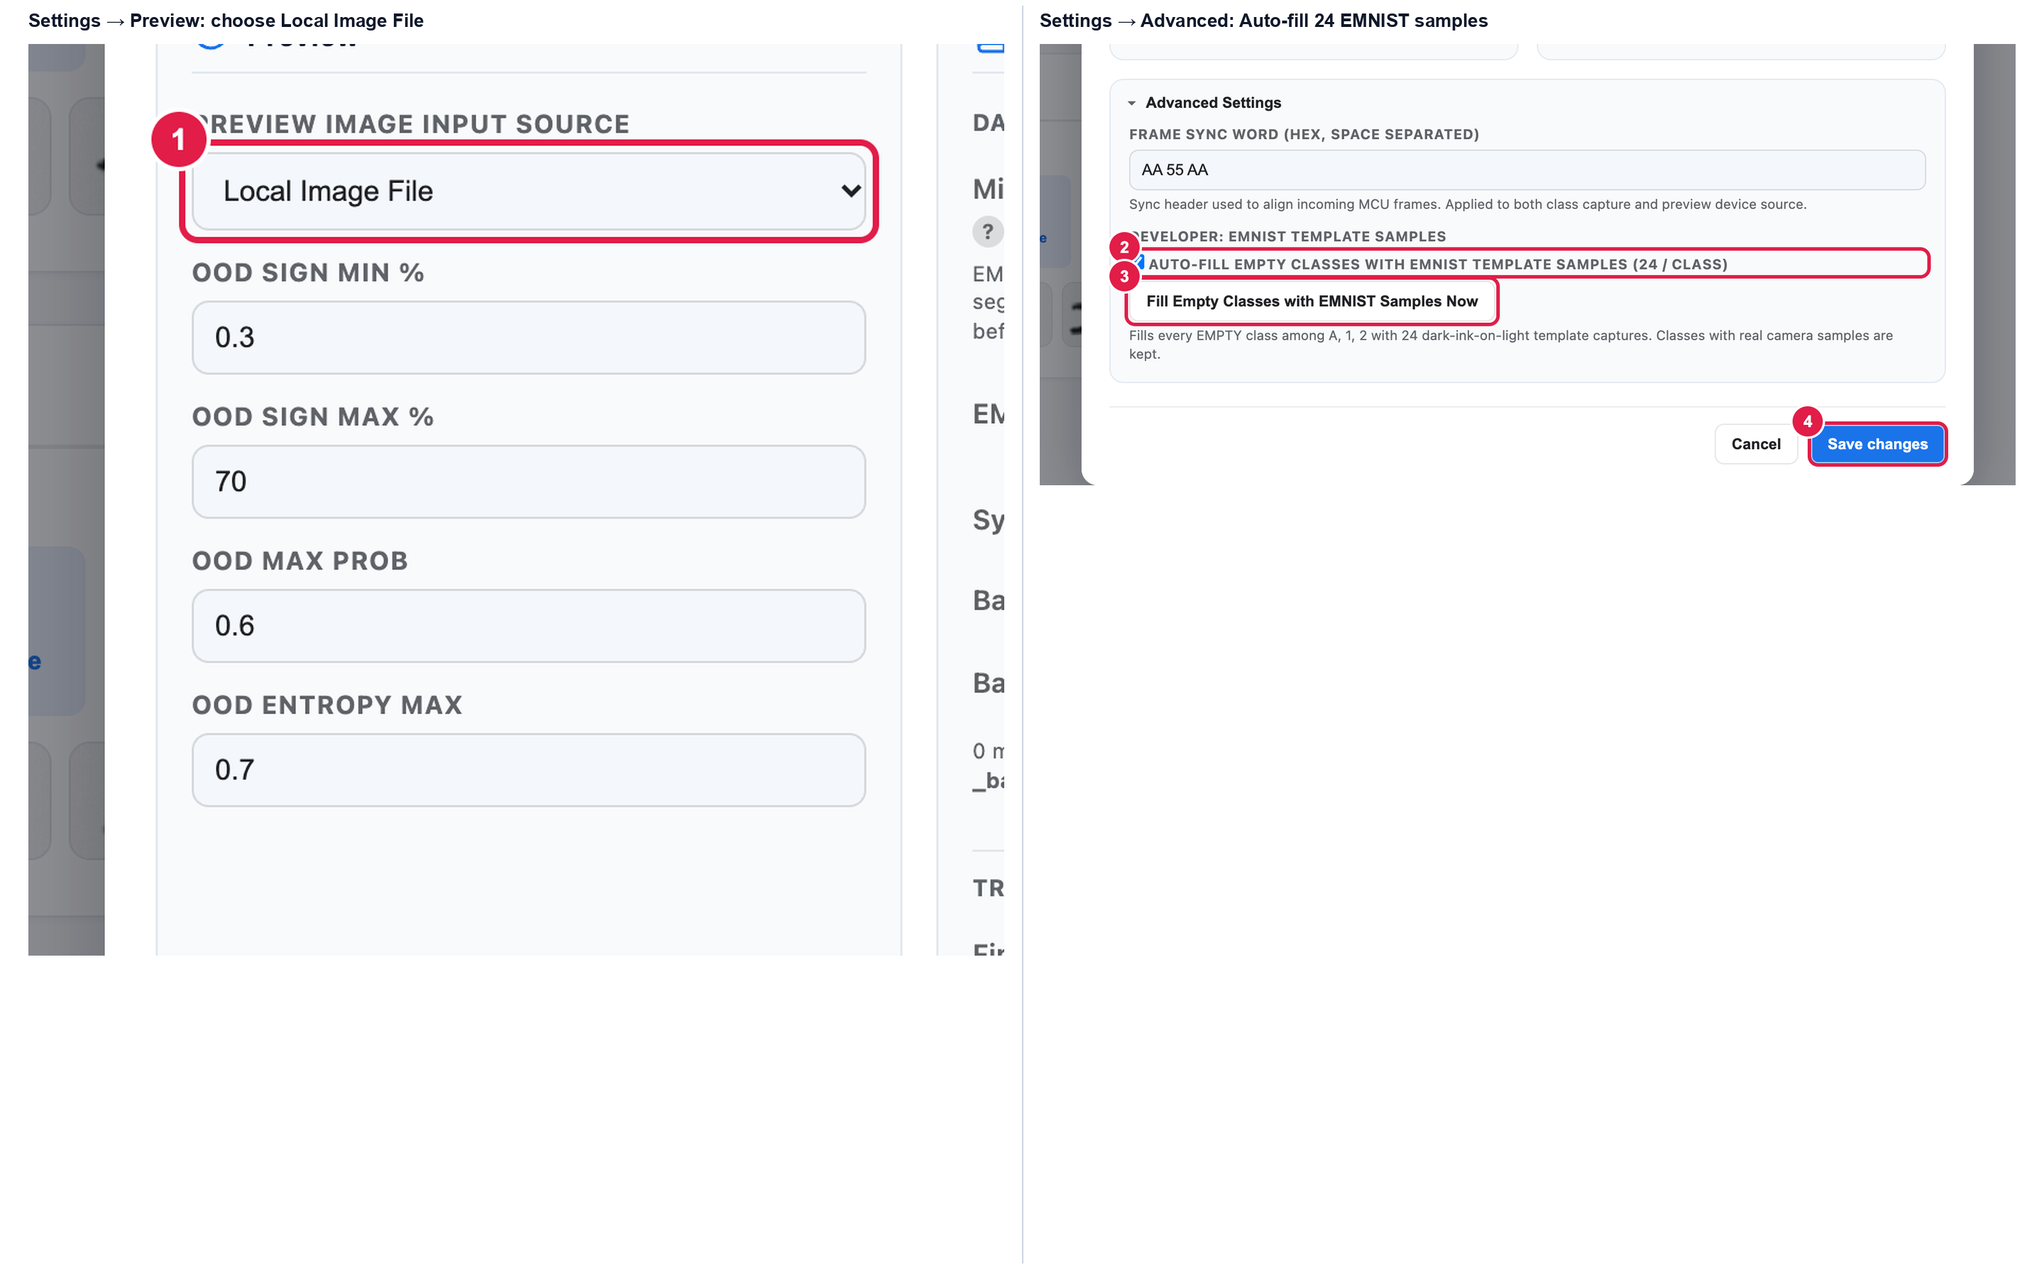
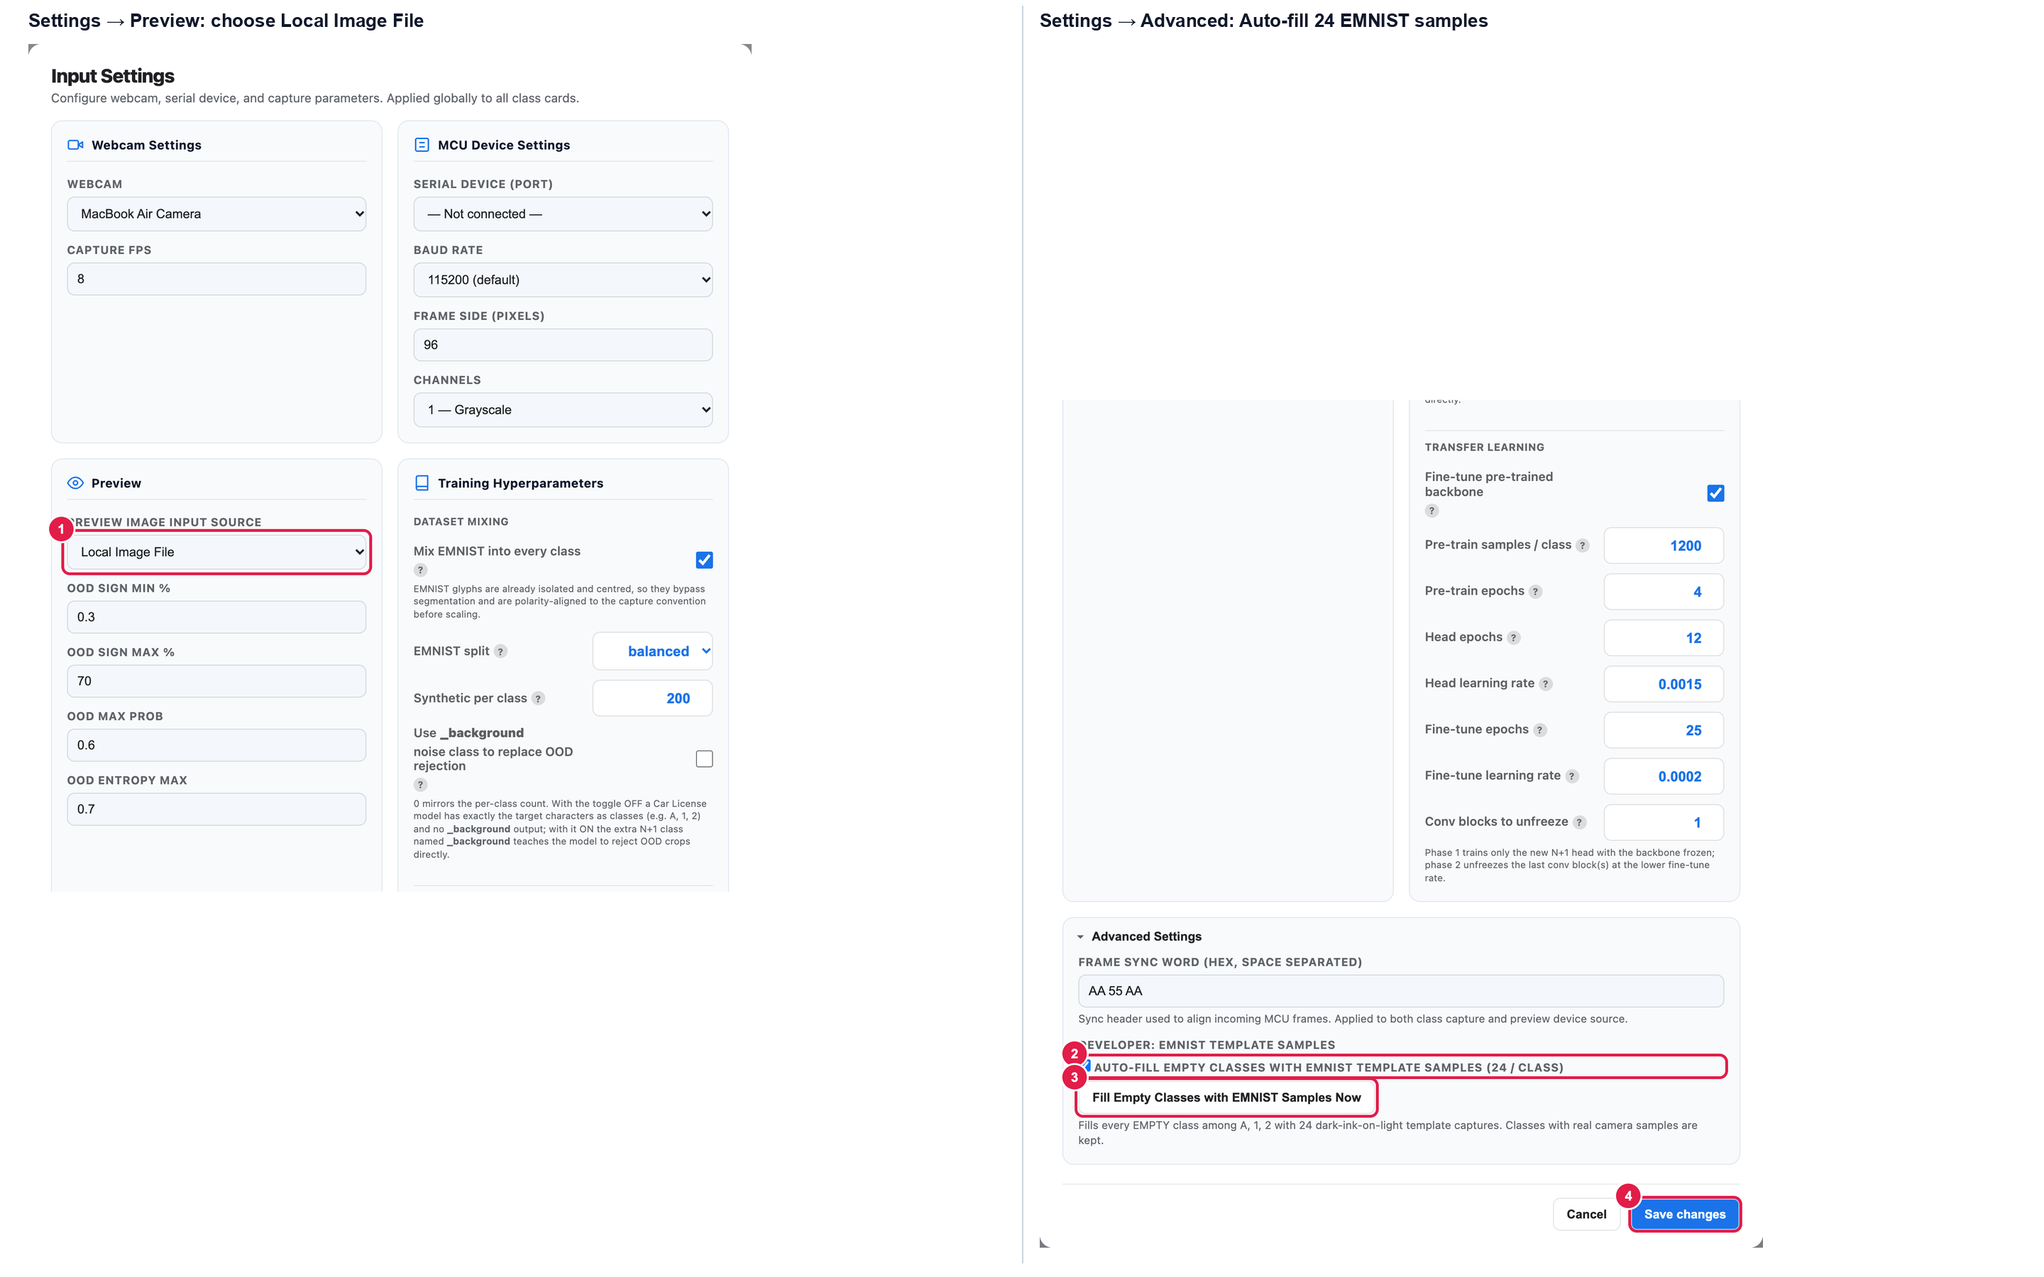
AItraining: polish the Car License manual figures and text (AI3 pass)
Visual fixes:
- 07a / 07b / 08: the capture enlarges the viewport to 1440x1200 and
  asserts the whole verdict block (slot cards, hint, preview note) is
  fully visible with bottom margin before snapping — the three slot cards
  are no longer chopped by the bottom edge.
- 04a / 06 right halves: the Settings views are captured as element
  screenshots of .tm-settings-card (full card width, clean padding), so
  the composite never slices through modal labels again.

Content fixes:
- Sections renumbered: A) Objective & Briefing, then 1-5; Part A heading
  reads "Setting the Target License".
- The project is called Car License Project throughout; the Start Page
  reference matches the app's renamed card (🚗 Car License Project), and
  the target is described as a "3-character car license / sign".
- Hyperparameter row 9 (Background / noise class) default is Off with the
  Car License explanation (pure 3-character training + standard
  OOD/confidence checks; On adds the extra "no letter" class).

diff --git a/scripts/build_car_sign_manual.py b/scripts/build_car_sign_manual.py
@@ -371,6 +371,60 @@ def snap(page, path: Path) -> None:
     log(f"screenshot -> {path.name}")
 
 
+def snap_element(ws, selector: str, path: Path) -> None:
+    """Capture a single element of the workspace.
+
+    Playwright clips to the element's own box, so a modal card is captured
+    at its full rendered width — a fixed pixel crop would slice through
+    labels along the card's edges.
+    """
+    path.parent.mkdir(parents=True, exist_ok=True)
+    ws.locator(selector).screenshot(path=str(path))
+    log(f"screenshot -> {path.name} (element {selector})")
+
+
+def _assert_fully_visible(page, ws, selectors: Sequence[str], margin: int = 30) -> None:
+    """Fail the build if any of `selectors` is clipped by the page viewport.
+
+    Compares each element's rect (workspace-frame coordinates) against the
+    visible slice of the workspace iframe inside the Streamlit page.
+    """
+    rects = ws.evaluate(
+        """(sels) => {
+          const out = {};
+          for (const sel of sels) {
+            const e = document.querySelector(sel);
+            if (!e) { out[sel] = null; continue; }
+            const r = e.getBoundingClientRect();
+            out[sel] = { top: r.top, bottom: r.bottom };
+          }
+          return out;
+        }""",
+        list(selectors),
+    )
+    frame_top = page.evaluate(
+        """() => {
+          const frame = Array.from(document.querySelectorAll('iframe')).find((f) => {
+            try { return !!(f.contentDocument && f.contentDocument.querySelector('#classes')); }
+            catch (e) { return false; }
+          });
+          return frame ? frame.getBoundingClientRect().top : null;
+        }"""
+    )
+    viewport_h = page.evaluate("window.innerHeight")
+    for sel, rect in rects.items():
+        if rect is None:  # optional element (e.g. hint only present on NO)
+            continue
+        visible_bottom = rect["bottom"] <= viewport_h - frame_top - margin
+        visible_top = rect["top"] >= -frame_top + margin
+        if not (visible_bottom and visible_top):
+            raise RuntimeError(
+                f"{sel} would be clipped in the screenshot: top={rect['top']:.0f} "
+                f"bottom={rect['bottom']:.0f} frame_top={frame_top:.0f} "
+                f"viewport_h={viewport_h}"
+            )
+
+
 def _verify_processed_preview_polarity(ws) -> None:
     """Guard the one screenshot whose polarity matters pedagogically.
 
@@ -568,7 +622,7 @@ def capture_walkthrough(app: StreamlitApp) -> Dict[str, Path]:
             ],
         )
         settings_top = ASSET_DIR / "_settings_top.png"
-        snap(page, settings_top)
+        snap_element(ws, "#globalSettingsModal .tm-settings-card", settings_top)
         clear_callouts(ws)
 
         # Bottom view: Advanced -> EMNIST samples + Save.  The modal card is
@@ -597,7 +651,7 @@ def capture_walkthrough(app: StreamlitApp) -> Dict[str, Path]:
             ],
         )
         settings_bottom = ASSET_DIR / "_settings_bottom.png"
-        snap(page, settings_bottom)
+        snap_element(ws, "#globalSettingsModal .tm-settings-card", settings_bottom)
         clear_callouts(ws)
 
         click_js(ws, "document.getElementById('settingsSave').click()")
@@ -714,12 +768,18 @@ def capture_walkthrough(app: StreamlitApp) -> Dict[str, Path]:
             ],
         )
         ocr_panel = ASSET_DIR / "_ocr_panel.png"
-        snap(page, ocr_panel)
+        snap_element(ws, "#globalSettingsModal .tm-settings-card", ocr_panel)
         clear_callouts(ws)
         click_js(ws, "document.getElementById('settingsCancel').click()")
         page.wait_for_timeout(600)
 
         # ── 07a / 07b Synth Match + Mismatch ──────────────────────────────
+        # The Preview card (square stage + three slot cards + hint + note)
+        # is taller than the 900 px viewport; enlarge the viewport so the
+        # whole card fits with a comfortable bottom margin, then assert the
+        # verdict elements are fully visible before snapping.
+        page.set_viewport_size({"width": VIEWPORT["width"], "height": 1200})
+        page.wait_for_timeout(600)
         if ws.evaluate("previewSource") != "upload":
             log("Preview source was not upload; switching through JS")
             ws.evaluate(
@@ -740,6 +800,7 @@ def capture_walkthrough(app: StreamlitApp) -> Dict[str, Path]:
         preview_top = ws_top(ws, "#previewCard")
         scroll_to_iframe_y(page, preview_top, target=20)
         page.wait_for_timeout(350)
+        _assert_fully_visible(page, ws, [".signmatch-main", ".signmatch-slots", "#previewNote"])
         preview_specs = [
             {"number": 1, "selectors": [".preview-synth-group"], "pad": 5},
             {"number": 2, "selectors": [".preview-controls"], "pad": 6},
@@ -760,6 +821,9 @@ def capture_walkthrough(app: StreamlitApp) -> Dict[str, Path]:
             timeout=240_000,
         )
         page.wait_for_timeout(1200)
+        _assert_fully_visible(
+            page, ws, [".signmatch-main", ".signmatch-slots", ".signmatch-hint", "#previewNote"]
+        )
         add_callouts(ws, preview_specs)
         shots["07b_preview_synth_mismatch"] = ASSET_DIR / "07b_preview_synth_mismatch.png"
         snap(page, shots["07b_preview_synth_mismatch"])
@@ -782,13 +846,15 @@ def capture_walkthrough(app: StreamlitApp) -> Dict[str, Path]:
 
         browser.close()
 
-    # Composite 04a (Preview source + Advanced EMNIST controls).
+    # Composite 04a (Preview source + Advanced EMNIST controls).  The two
+    # settings panels are element captures of the full modal card, so pass
+    # no crop box — nothing gets sliced through text.
     shots["04a_settings_emnist_autofill"] = ASSET_DIR / "04a_settings_emnist_autofill.png"
     _pair_panels(
         [
-            (settings_top, (300, 470, 760, 900),
+            (settings_top, None,
              "Settings → Preview: choose Local Image File"),
-            (settings_bottom, (300, 520, 1140, 900),
+            (settings_bottom, None,
              "Settings → Advanced: Auto-fill 24 EMNIST samples"),
         ],
         shots["04a_settings_emnist_autofill"],
@@ -799,7 +865,7 @@ def capture_walkthrough(app: StreamlitApp) -> Dict[str, Path]:
     _pair_panels(
         [
             (training_card, (640, 0, 980, 900), "Training card → Advanced"),
-            (ocr_panel, (680, 0, 1140, 900), "Settings → Training Hyperparameters"),
+            (ocr_panel, None, "Settings → Training Hyperparameters"),
         ],
         shots["06_training_and_advanced"],
     )
@@ -858,7 +924,9 @@ def _pair_panels(
     slot_h = canvas_h - label_h - margin
     x_positions = [margin, margin + slot_w + gap]
     for idx, (path, crop_box, label) in enumerate(panels[:2]):
-        crop = _crop_css(Image.open(path).convert("RGB"), crop_box)
+        crop = Image.open(path).convert("RGB")
+        if crop_box is not None:  # None = the capture is already cropped
+            crop = _crop_css(crop, crop_box)
         scale = min(slot_w / crop.width, slot_h / crop.height)
         crop = crop.resize((max(1, int(crop.width * scale)), max(1, int(crop.height * scale))),
                            Image.LANCZOS)
@@ -1131,39 +1199,39 @@ def build_docx(assets: Dict[str, Path]) -> Path:
 
     # ── Title block ─────────────────────────────────────────────────────
     _heading(doc, "TFLiteTraining App Manual: Car License Project (3-Char)", 2)
-    _heading(doc, "A) Objective:", 3)
+    _heading(doc, "A) Objective & Briefing:", 3)
     _numbered(doc, "To get familiar with the TFLiteTraining desktop app.")
     _numbered(doc, "To collect character samples, preprocess images with ROI and Darkness/Luminosity thresholds, and train an AI model.")
-    _numbered(doc, "To test 3-character road sign / car plate recognition (🟢 YES — MATCH / 🔴 NO — NOT MATCH) and export the trained model.")
+    _numbered(doc, "To test 3-character car license / sign recognition (🟢 YES — MATCH / 🔴 NO — NOT MATCH) and export the trained model.")
     _para(doc, "Briefing:", bold=True)
     _para(
         doc,
         "In this task, you will learn how to train and export a TensorFlow Lite model through "
         "data collection, image preprocessing, model training, and performance preview. "
-        "Specifically, you will train a model that can read a 3-character road sign / car sign "
+        "Specifically, you will train a model that can read a 3-character car license / sign "
         "in sequence (such as A 1 2) and tell you whether the sign in front of the camera "
         "matches your target (🟢 YES — MATCH or 🔴 NO — NOT MATCH). Please remember to save "
         "your project regularly (File ▾ → Save) to avoid losing your work.",
     )
 
     # ── 2. Opening the project & the four main areas ────────────────────
-    _heading(doc, "2. Opening the Project & the Four Main Areas", 3)
+    _heading(doc, "1. Opening the Project & the Four Main Areas", 3)
     _para(
         doc,
-        "Open the app. On the Start Page, find the 🛑 Car License Project (3-Char) card and "
+        "Open the app. On the Start Page, find the 🚗 Car License Project card and "
         "click Get Started to start a new project, or click Open Project (.tmproj) to open a "
         "saved template/project file.",
     )
-    _figure(doc, assets["01_start_page"], "Figure 1 — Start Page: choose the 🛑 Car License Project (3-Char) card.")
+    _figure(doc, assets["01_start_page"], "Figure 1 — Start Page: choose the 🚗 Car License Project card.")
     _para(doc, "After opening the project, you will see four main areas:")
     _figure(doc, assets["02_workspace_overview"], "Figure 2 — The workspace: the four main areas.")
-    _bullet(doc, "Target Sign Bar (Top Left) – for typing the 3 letters or numbers on your road sign in order (e.g., A, 1, 2).", bold_prefix="Target Sign Bar (Top Left)")
+    _bullet(doc, "Target Sign Bar (Top Left) – for typing the 3 letters or numbers on your car license in order (e.g., A, 1, 2).", bold_prefix="Target Sign Bar (Top Left)")
     _bullet(doc, "Sample Area (Left) – for collecting and preprocessing single-character photos for each character card.", bold_prefix="Sample Area (Left)")
     _bullet(doc, "Train Area (Middle) – for training the AI model by adjusting hyperparameters.", bold_prefix="Train Area (Middle)")
     _bullet(doc, "Preview Area (Right) – for testing the trained model on a 3-character sign and checking the 🟢 YES / 🔴 NO result.", bold_prefix="Preview Area (Right)")
 
     # ── 3. Sample Area Part A ───────────────────────────────────────────
-    _heading(doc, "3. Sample Area — Part A: Setting the Target Sign & Collecting Samples", 3)
+    _heading(doc, "2. Sample Area — Part A: Setting the Target License & Collecting Samples", 3)
     _para(doc, "Setting the 3-Character Target Sign:", bold=True)
     _bullet(doc, "Click each of the three boxes in the Target Sign Bar and type your 3 characters (for example, A, 1, 2). Use the ◀ / ▶ buttons beneath a slot to swap neighbouring characters.")
     _bullet(doc, "If your sign uses the same character twice (like A 1 A), the app automatically keeps just one A card with a “Slots 1 & 3” badge so you only need to collect samples for A once!")
@@ -1174,9 +1242,9 @@ def build_docx(assets: Dict[str, Path]) -> Path:
         "Key rule: one card = one character",
         [
             "Each character card collects photos of ONE single letter/number (not the whole "
-            "3-letter sign at once). This way the AI learns each character separately, and "
-            "during Preview the app slices the whole sign into 3 boxes and checks each one "
-            "by itself.",
+            "3-character license at once). This way the AI learns each character separately, "
+            "and during Preview the app slices the whole license into 3 boxes and checks "
+            "each one by itself.",
         ],
         icon="💡",
     )
@@ -1188,7 +1256,7 @@ def build_docx(assets: Dict[str, Path]) -> Path:
     _figure(doc, assets["04a_settings_emnist_autofill"], "Figure 4a — ⚙ Settings: the Auto-fill 24 EMNIST samples option (left: Preview source, right: Advanced Settings).")
 
     # ── 4. Sample Area Part B: the Edit page ────────────────────────────
-    _heading(doc, "4. Sample Area — Part B: Preprocessing the Samples (Edit Page)", 3)
+    _heading(doc, "3. Sample Area — Part B: Preprocessing the Samples (Edit Page)", 3)
     _para(
         doc,
         "On each character card header there are small icons: the Edit button opens the image "
@@ -1219,7 +1287,7 @@ def build_docx(assets: Dict[str, Path]) -> Path:
     _para(doc, "Please remember to save after any changes!", bold=True, color="B91C1C", size=10)
 
     # ── 5. Train Area ───────────────────────────────────────────────────
-    _heading(doc, "5. Train Area — Setting Hyperparameters & Training", 3)
+    _heading(doc, "4. Train Area — Setting Hyperparameters & Training", 3)
     _para(
         doc,
         "Next, move to the Train Area. After image processing is complete, click ▸ Advanced "
@@ -1238,7 +1306,7 @@ def build_docx(assets: Dict[str, Path]) -> Path:
             ["6", "Validation Split", "0.25", "0–0.5", "The part of your photos kept secret for testing."],
             ["7", "Learning Rate", "0.0016", "0 or more", "How big each learning step is. Small steps = careful but slow."],
             ["8", "Mix EMNIST into every class", "On", "on / off", "Mixes built-in handwriting examples with your photos so the AI learns from more variety."],
-            ["9", "Background / noise class", "On", "on / off", "Adds a “no letter here” class, so the AI can tell you when a box is empty."],
+            ["9", "Background / noise class", "Off", "on / off", "Default is Off for the Car License Project so the AI focuses purely on your 3 characters and uses standard OOD/confidence checks; turn On only if you want an extra “no letter” class to replace OOD."],
             ["10", "Fine-tune pre-trained backbone", "On", "on / off", "Starts from a smart pre-learned letter reader so your model trains fast and accurately even with just 20 photos!"],
         ],
         widths=[0.3, 1.55, 1.3, 1.0, 2.35],
@@ -1252,7 +1320,7 @@ def build_docx(assets: Dict[str, Path]) -> Path:
     _figure(doc, assets["06_training_and_advanced"], "Figure 6 — The Train Area → Advanced (left) and ⚙ Settings → Training Hyperparameters (right).")
 
     # ── 6. Preview Area & export ────────────────────────────────────────
-    _heading(doc, "6. Preview Area — Testing 3-Slot Sign Matching & Exporting", 3)
+    _heading(doc, "5. Preview Area — Testing 3-Slot Matching & Exporting", 3)
     _para(doc, "Select the Preview Image Input Source in ⚙ Settings → Preview:")
     _bullet(doc, "Device (MCU) — live pictures from the smart car camera.", bold_prefix="Device (MCU)")
     _bullet(doc, "Webcam — your laptop camera.", bold_prefix="Webcam")
@@ -1265,7 +1333,7 @@ def build_docx(assets: Dict[str, Path]) -> Path:
     _para(doc, "Reading the 3-Slot Sign Match Output:", bold=True)
     _figure(doc, assets["07a_preview_synth_match"], "Figure 7a — 🧪 Synth Match: all three slots agree → 🟢 YES — MATCH.")
     _figure(doc, assets["07b_preview_synth_mismatch"], "Figure 7b — ❌ Synth Mismatch: one slot disagrees → 🔴 NO — NOT MATCH.")
-    _bullet(doc, "The app slices the detected sign horizontally into 3 character slots in your chosen reading direction.")
+    _bullet(doc, "The app slices the detected license horizontally into 3 character slots in your chosen reading direction.")
     _bullet(doc, "Each slot card shows WANT <character>, the character read by the AI, the 28×28 image fed to the model, and the confidence percentage (%).")
     _bullet(doc, "When all 3 slots match your target characters with at least 60% confidence, the banner turns green: 🟢 YES — MATCH. If any slot reads a different character, is below 60%, or is blank (_background), the banner turns red: 🔴 NO — NOT MATCH and explains which slot failed.")
     _para(doc, "Exporting the Model & Saving Your Project:", bold=True)
@@ -1274,7 +1342,7 @@ def build_docx(assets: Dict[str, Path]) -> Path:
     _figure(doc, assets["08_export_and_save"], "Figure 8 — Export Model on the Preview card and File ▾ → Save / Save as.")
     _para(
         doc,
-        "That's it — you collected letters, trained an AI to read them, tested a whole sign, "
+        "That's it — you collected letters, trained an AI to read them, tested a whole license, "
         "and exported your model. Well done!",
         bold=True,
         color="1D4ED8",
